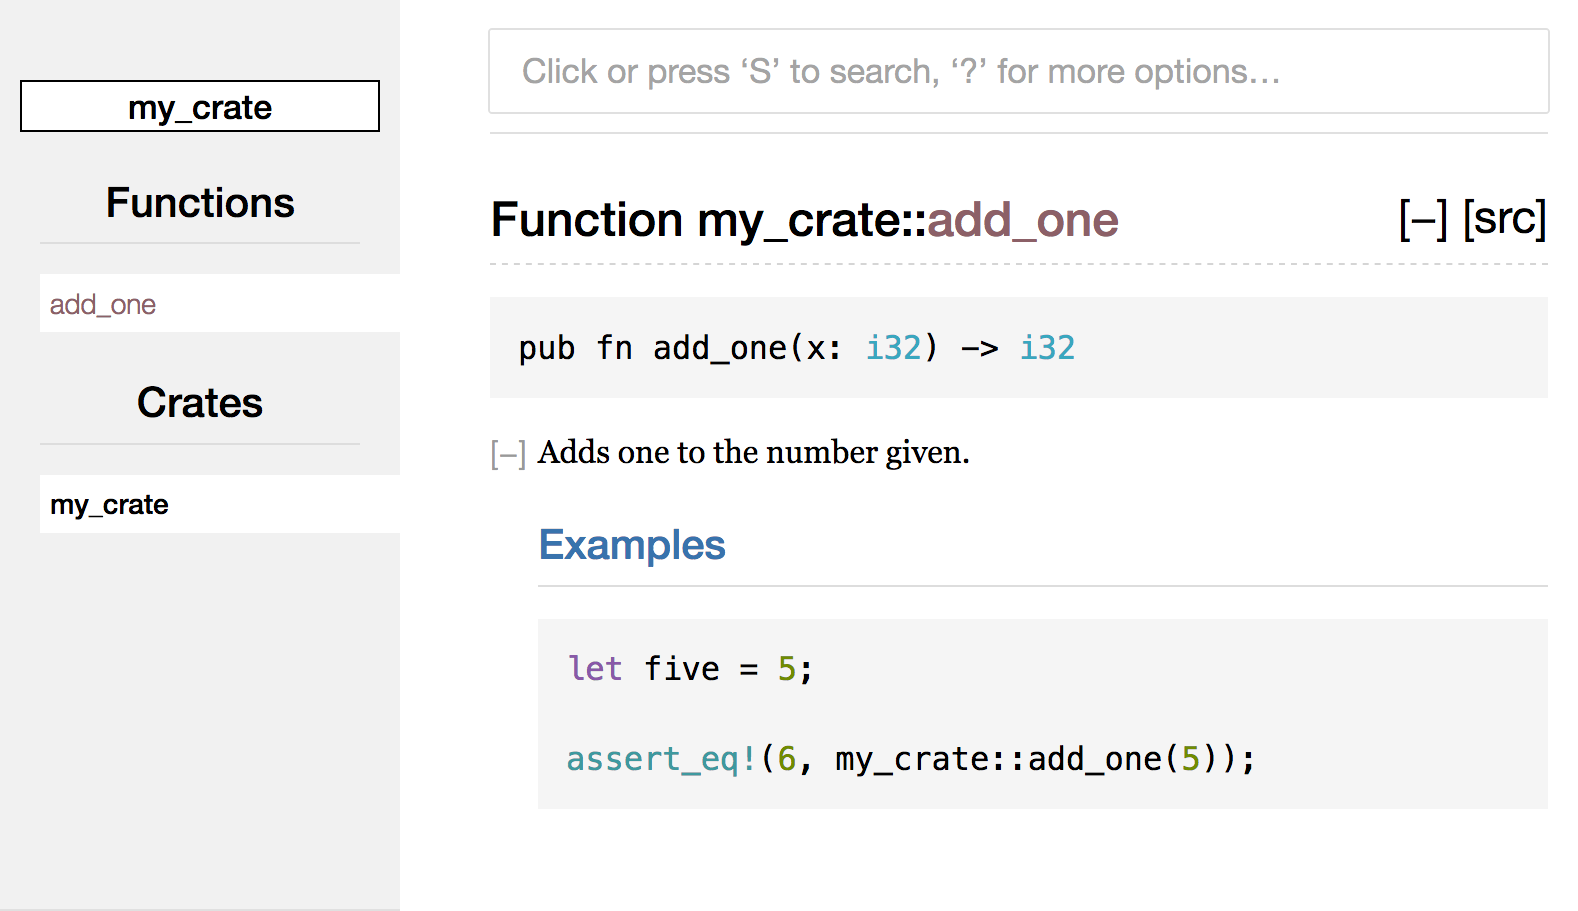
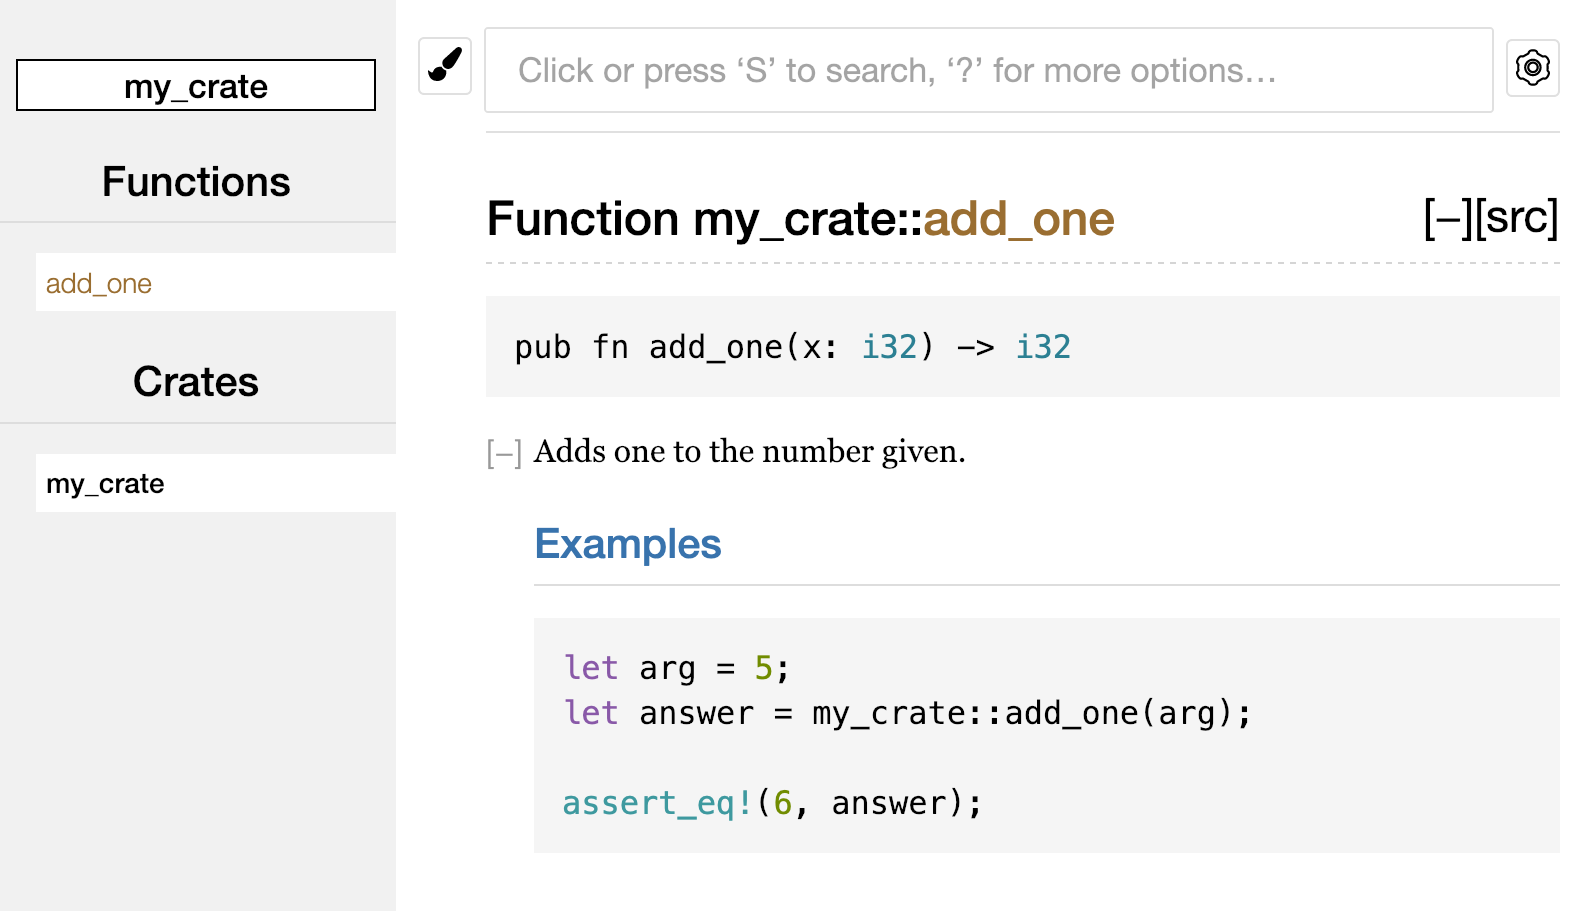
Update doc comment and screenshot to not have an unused variable
Fixes #1732.

diff --git a/src/ch14-02-publishing-to-crates-io.md b/src/ch14-02-publishing-to-crates-io.md
@@ -34,9 +34,10 @@ for an `add_one` function in a crate named `my_crate`:
 /// # Examples
 ///
 /// ```
-/// let five = 5;
+/// let arg = 5;
+/// let answer = my_crate::add_one(arg);
 ///
-/// assert_eq!(6, my_crate::add_one(5));
+/// assert_eq!(6, answer);
 /// ```
 pub fn add_one(x: i32) -> i32 {
     x + 1
